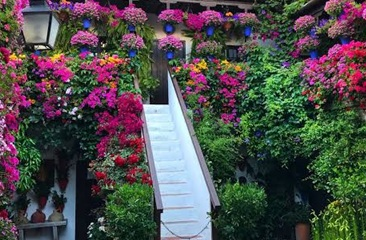
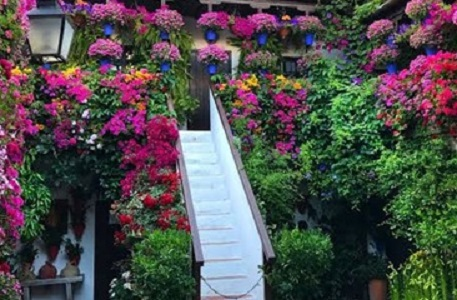
actualcasa

diff --git a/index.html b/index.html
@@ -6,40 +6,38 @@
     <title>TurismoCordoba</title>
 </head>
 <body style="font-family: Arial, Helvetica, sans-serif; color: #122a4e;">
-    <header style="background-color: #122a4e; color: aliceblue; padding: 15px 4%; margin: 0;">
-        <section style="display: flex; justify-content: space-between; align-items: center; width: 100%;">
+    <header style="background-color: #0d213a; color: aliceblue; padding: 15px 4%; margin: 0;">
+        <section style="display: flex; ">
 
-            <div style="display: flex; align-items: center; width: 50%;">              
+            <div style="display: flex; align-items: center; width: 50%; margin-left:1.5%">              
                                         
-                <img src="./src/logo.png" alt="logo" style="object-fit: cover;">                              
+                <img src="./src/logo-1.png" alt="logo" style="object-fit: cover;">                              
 
-                <div style="margin: 0;">
+                <div style="margin: 0; font-family:'Times New Roman', Times, serif;">
                     <p style="font-size: 200%; margin: 0;">DESCUBRE</p>
-                    <P style="font-size: 250%; margin: 0; color: #68b2b;">CÓRDOBA</P>
+                    <P style="font-size: 300%; margin: 0; color:#d4af79; "><b style="font-size: 130%;">C</b>ÓRDOBA</P>
                 </div>
 
             </div>
-
-            <div>
-                <nav style="display: flex; gap: 20; margin-left: auto; margin-right: 30px; padding-right: 30px; color: aliceblue; text-decoration: none;">
+           
+                <nav style=" color: aliceblue; text-decoration: none; align-items: center; display: flex; justify-content: space-around; width: 50%; margin-left: 10%; font-size: 20px;">
                     <a href="#inicio" style="text-decoration: none; color: aliceblue;">Inicio</a>
                     <a href="#lugares" style="text-decoration: none; color: aliceblue;">Lugares</a>
                     <a href="#horarios" style="text-decoration: none; color: aliceblue;">Horarios</a>
                     <a href="#videos" style="text-decoration: none; color: aliceblue;">Videos</a>
                     <a href="#contacto" style="text-decoration: none; color: aliceblue;">Contacto</a>
                 </nav>
-            </div>
-            
+                        
         </section>
     </header>
 
-    <main>
+    <main style="block;">
         <section style="background-color: antiquewhite;">
-            <div style="background-image: url(./src/cordoba1.jpg);background-size: cover; background-position: center; background-repeat: no-relative; width: 100%; height: 500px; display: flex;">
+            <div style="background-image: url(./src/cordoba2.png);background-size: cover; background-position: center; background-repeat: no-relative; width: 100%; height: 500px; display: flex;">
                 <div style="margin-left: 6%;">
                     <h2 style="width: 50%; font-size: 50px; font-family: 'Times New Roman', Times, serif;">Historia, cultura y patrimonio</h2>
                     <p style="width: 40%; font-size: x-large;">Descubre una ciudad única, donde el pasado y presente se unen paraofrecerte una experiencia inolvidable</p>
-                    <button style="font-family: Arial, Helvetica, sans-serif; width: 20%; height: 10%; border-radius: 25px; background-color: #e7db2c; color: #122a4e; font-size: x-large;"> <b>Conoce Córdoba</b></button>
+                    <button style="font-family: Arial, Helvetica, sans-serif; width: 20%; height: 10%; border-radius: 25px; background-color: #eabe3f; color: #122a4e; font-size: x-large;"> <b>Conoce Córdoba</b></button>
                 </div>
                 
             </div>
@@ -48,36 +46,130 @@
                 <div style="display: block; justify-content: center; align-items: center;">
                     <h2 style="font-family: 'Times New Roman', Times, serif; text-align: center; font-size: 60px; color: #122a4e; ">Bienvenidos a Córdoba</h2>
                     <p style="font-family: 'Times New Roman', Times, serif; text-align: center; font-size: 23px; color: #122a4e; ">Córdoba es una ciudad llena de historia, arte y tradición. Pasear por sus calles es descubrir un legado único, resultado del encuentro entre culturas que han dejado su huella en cada rincon</p>
+
+                    
                 </div>
                 
             </div>
             
             <div style="padding: 0% 47%">
-                <hr style="border-width: 5px; border-color: #e7db2c;">
+                <hr style="border-color: #e7db2c; margin-bottom: 2%;">
             </div>  
         </section>
 
-        <section>
-            <div>
-                <h2 style="padding-left: 4%; font-family: 'Times New Roman', Times, serif; font-size: 40px;">Lugares imprescindibles</h2>
-                <div style="display: flex; align-items: center; justify-content: space-around;">                                    
-                    <div style="object-fit: cover;">
-                        <img src="./src/mezquita.jpg" alt="">
+        <section style="width: 100%; height: 400%;">
+            <h2 style="margin-left: 6%; font-family: 'Times New Roman', Times, serif; font-size: 50px;">Lugares imprescindibles</h2>
+            <div style="align-items: center; display: flex;">
+                
+                <div style="display: flex; align-items: center; justify-content: space-around; font-family:'Times New Roman', Times, serif; font-size: 25px;">                                    
+                    <div style="object-fit: cover; width: 22%;">
+                        <article>
+                        <img src="./src/mezquita.png" alt="La Mezquita-Catedral de Córdoba" style="border-radius: 8px;">
+                        <h2>Mezquita Catedral </h2>
+                        <p>Un símbolo de Córdoba y una de las joyas arquitectónicas mas importantes del mundo. <br> <br> <br></p>
+                        </article>
+                        
                     </div>
 
-                    <div style="object-fit: cover;">
-                        <img src="./src/puenteromano.jpg" alt="">
+                    <div style="object-fit: cover; width: 22%;">
+                        <article>
+                        <img src="./src/puenteromano.jpg" alt="puente romano" style="border-radius: 8px;">
+                        <h2>Puente Romano </h2>
+                        <p>Un puente con más de dos mil años de historia que une el pasado y el presente de la ciudad. <br> <br> <br></p>
+                        </article>
                     </div>
 
-                    <div style="object-fit: contain;">
-                        <img src="./src/patios.jpg" alt="">
+                    <div style="object-fit: cover; width: 22%;">
+                        <article style="width: 30%;">
+                        <img src="./src/patios.jpg" alt="Patios de Córdoba" style="border-radius: 8px;">
+                        </article>
+                        <h2>Patios Cordobeses </h2>
+                        <p>Una tradición única que refleja la cultura que llena de color y vida las calles de Córdoba, declarada Patrimonio Inmaterial de la Humanidad.</p>
+                    </div>                   
+        </section>
+
+        <section style="width: 100%; height: 400%; background-color: antiquewhite; padding: 2%;">
+            <h2 style="margin-left: 6%; margin-top: 0; font-family: 'Times New Roman', Times, serif; font-size: 50px;">Planifica tu visita</h2>
+            
+            <table border="1" style="border:1px solid grey; width: 88%; margin-left:6%">
+                <tr style="background-color: #687385; color: #fcfcfd; font-size: 25px; justify-content:flex-start">
+                    <th style="text-align: left; border: 4% margin: 3%; padding-left: 5%;">Actividad</th>
+                    <th style="text-align: left; margin: 3%; padding-left: 5%;">Horario de ejemplo</th>
+                </tr>
+                <tr >
+                    <td style="text-align: left; padding: 0.5% 5%;">Visita a la Mezquita-Catedral</td>
+                    <td style="text-align: left; padding: 0.5% 5%;;">10:00</td>
+                </tr>
+                <tr>
+                    <td style="text-align: left; padding: 0.5% 5%;">Paseo por el Puente Romano</td>
+                    <td style="text-align: left; padding: 0.5% 5%;">12:00</td>
+                </tr>
+                <tr>
+                    <td style="text-align: left; padding: 0.5% 5%;">Recorrido por el Casco Histórico</td>
+                    <td style="text-align: left; padding: 0.5% 5%;">16:00</td>
+                </tr>
+                <tr>
+                    <td style="text-align: left; padding: 0.5% 5%;">Visita a los Patios Cordobeses</td>
+                    <td style="text-align: left; padding: 0.5% 5%;">18:00</td>
+                </tr>   
+            </table>
+                
+            
+        </section>
+
+        <section style="width: 100%; height: 400%; background-color: #e6f1f1;">
+            <h2 style="margin-left: 6%; font-family: 'Times New Roman', Times, serif; font-size: 50px;">Descubre Córdoba en vídeo</h2>
+            <p style="margin-left: 6%; margin-top: 0; font-size: 25px;">Explora nuestra ciudad a través de estos videos y descubre algunos de sus lugares más representativos.</p>
+            <div style="align-items: center; display: flex;">
+                
+                <div style="display: flex; align-items: center; justify-content: space-around; font-family:'Times New Roman', Times, serif; font-size: 25px;">                                    
+                    <div style="width: 22%; height: 10%; background-color:#cf4f84">
+                        <article>
+                        
+                        </article>
+                        
                     </div>
-                </div>
-            </div>
-           
+
+                    <div style="width: 22%; height: 10%; background-color:#122a4e">
+                        <article>
+                        
+                        </article>
+                    </div>
+
+                    <div style="height: 10%; width: 20%; background-color: #eabe3f; ">
+                        <article style="width: 30%;">
+                        
+                    </div>                   
         </section>
     </main>
 
-    <footer></footer>
+    <footer style="background-color: #0d213a; color: aliceblue; padding: 15px 4%; margin: 0;">
+         <section style="display: flex; ">
+
+            <div style="display: flex; align-items: center; width: 50%; margin-left:1.5%">              
+                                        
+                <img src="./src/logo-1.png" alt="logo" style="object-fit: cover;">                              
+
+                <div style="margin: 0; font-family:'Times New Roman', Times, serif;">
+                    <p style="font-size: 200%; margin: 0;">DESCUBRE</p>
+                    <P style="font-size: 300%; margin: 0; color:#d4af79; "><b style="font-size: 130%;">C</b>ÓRDOBA</P>
+                </div>
+
+            </div>
+           
+                <nav style=" color: aliceblue; text-decoration: none; align-items: center; display: flex; justify-content: space-around; width: 50%; margin-left: 10%; font-size: 20px;">
+                    <a href="#inicio" style="text-decoration: none; color: aliceblue;">Inicio</a>
+                    <a href="#lugares" style="text-decoration: none; color: aliceblue;">Lugares</a>
+                    <a href="#horarios" style="text-decoration: none; color: aliceblue;">Horarios</a>
+                    <a href="#videos" style="text-decoration: none; color: aliceblue;">Videos</a>
+                    <a href="#contacto" style="text-decoration: none; color: aliceblue;">Contacto</a>
+                </nav>
+
+            <div>   
+
+            </div>
+                        
+        </section>
+    </footer>
 </body>
 </html>
